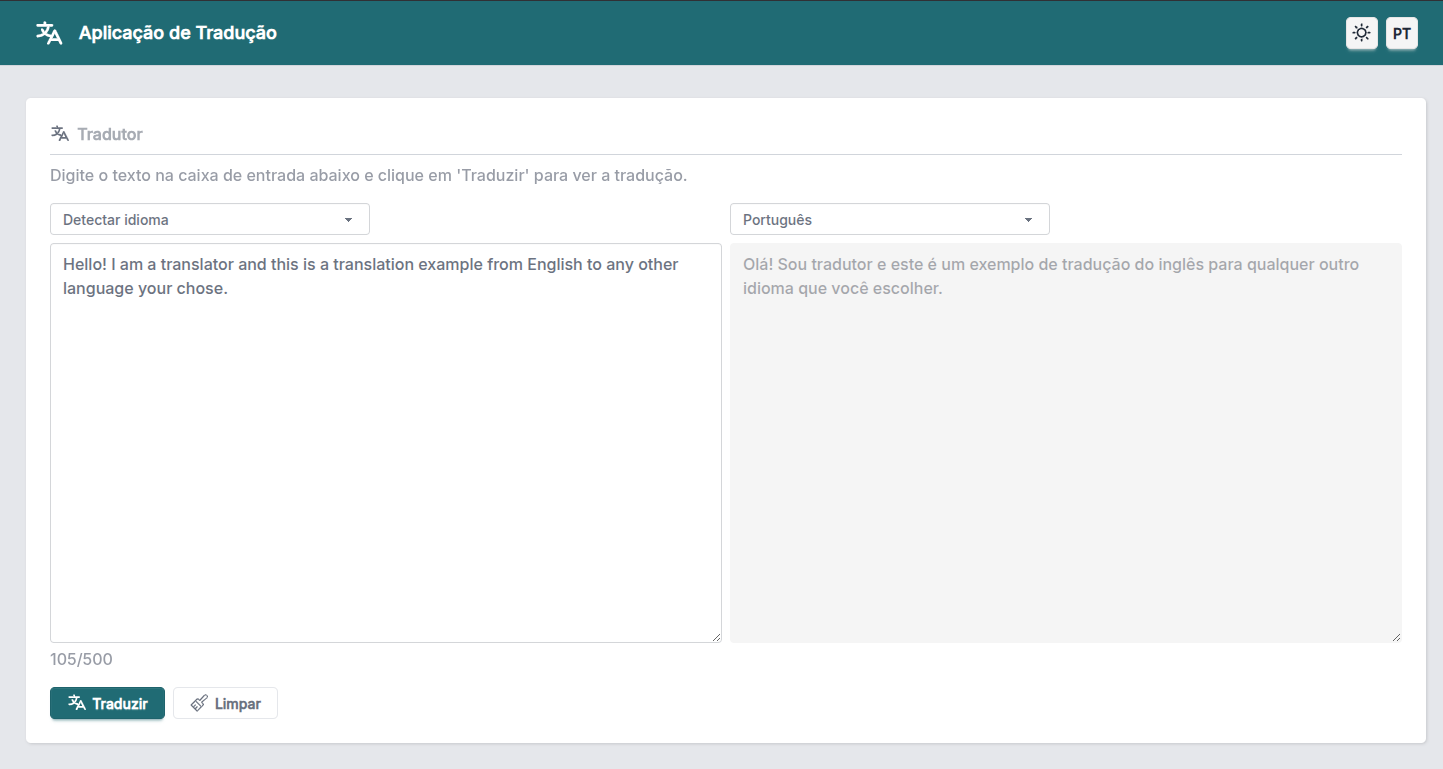
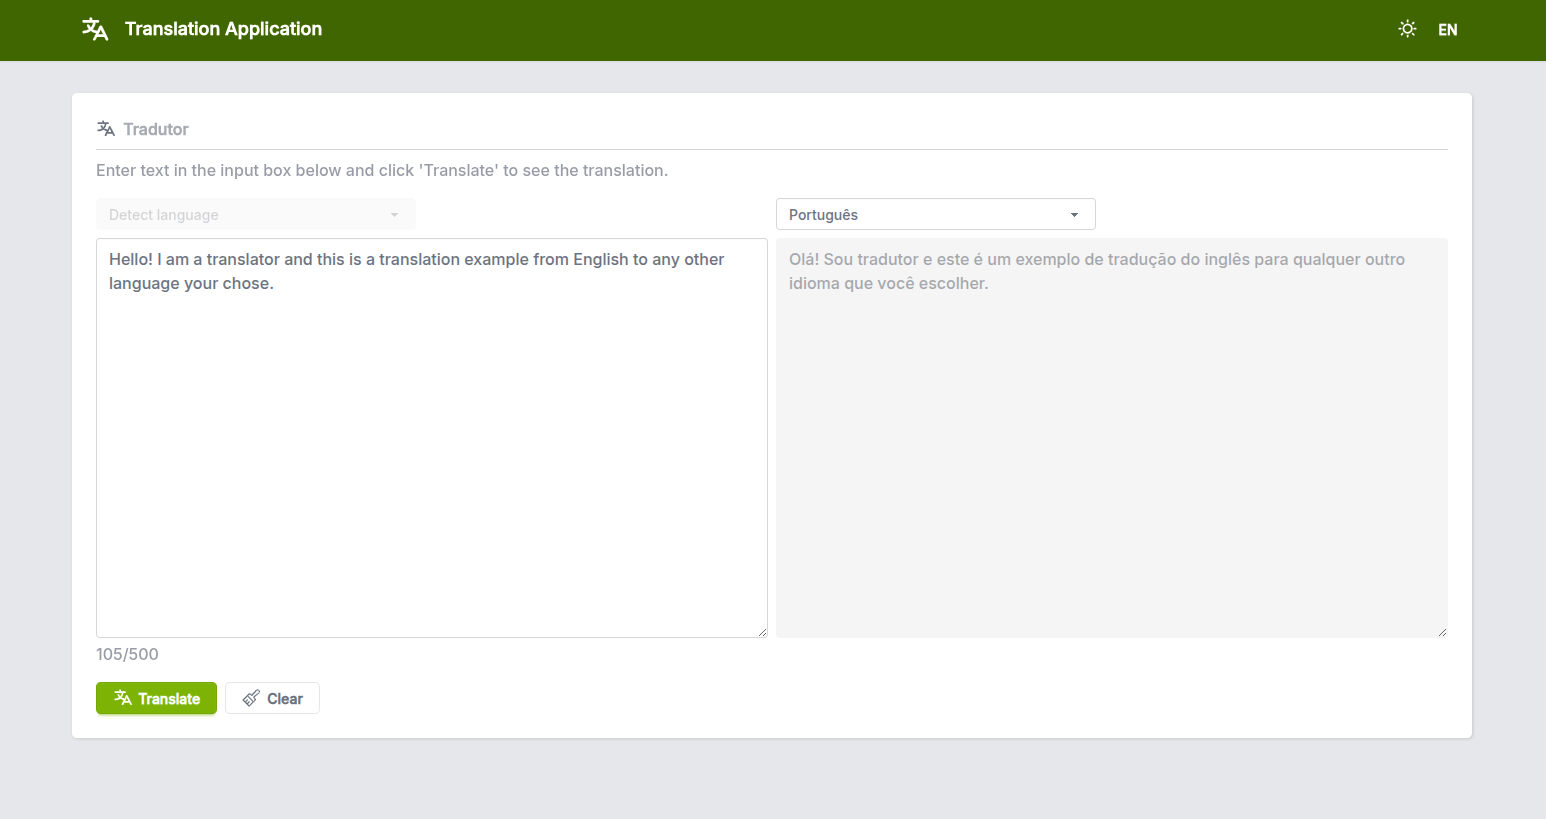
chore: update translation app image

Changed region(s): [[0.0, 0.0, 1.0, 0.9675], [0.6861, 0.2497, 0.7173, 0.2809]]

diff --git a/applications/profile-page-app/vite.config.ts b/applications/profile-page-app/vite.config.ts
@@ -6,4 +6,13 @@ export default defineConfig({
   plugins: [react(), tsconfigPaths()],
   appType: 'spa',
   base: '',
+  build: {
+    rollupOptions: {
+      output: {
+        manualChunks: {
+          'react-vendor': ['react', 'react-dom', 'react-router-dom', 'react-icons'],
+        },
+      },
+    },
+  },
 });

diff --git a/applications/profile-page-app/src/pages/routes.tsx b/applications/profile-page-app/src/pages/routes.tsx
@@ -1,8 +1,10 @@
 import { Route, createRoutesFromElements } from 'react-router-dom';
 
+import ProfilePage from './profile';
+
 const Router = createRoutesFromElements(
   <>
-    <Route path="/*" lazy={() => import('./profile')} />
+    <Route path="/*" Component={ProfilePage} />
     <Route path="/resume" lazy={() => import('./resume')} />
     <Route path="/certification" lazy={() => import('./certificates')} />
     <Route path="/projects" lazy={() => import('./projects')} />

diff --git a/applications/profile-page-app/src/pages/profile/index.tsx b/applications/profile-page-app/src/pages/profile/index.tsx
@@ -16,4 +16,4 @@ const ProfilePage = () => {
   );
 };
 
-export const Component = ProfilePage;
+export default ProfilePage;